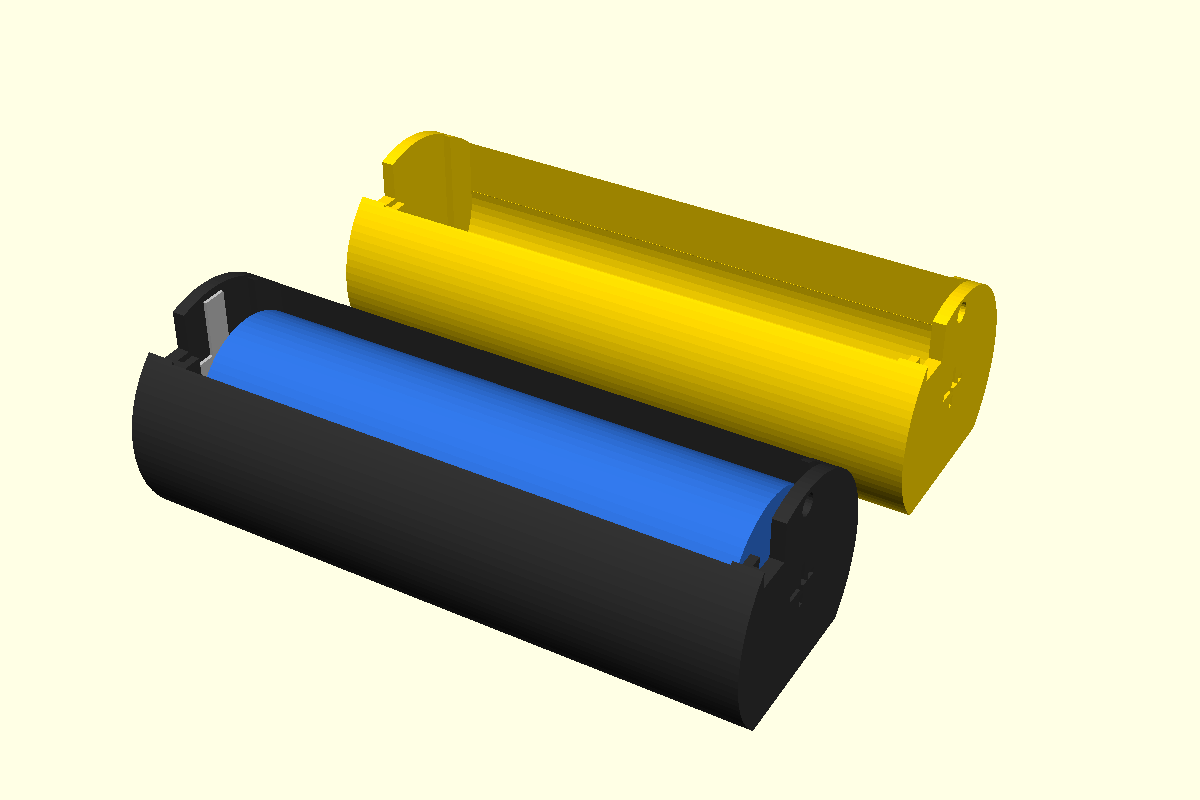
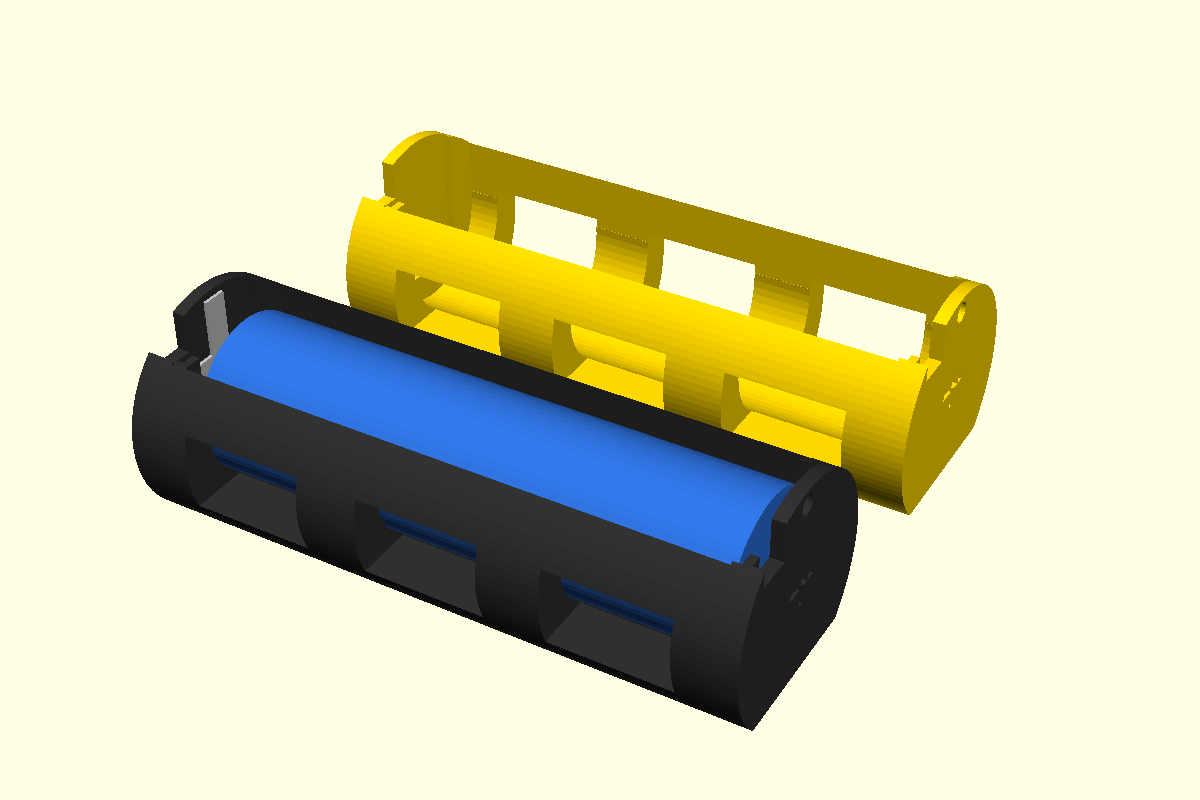
hw: lighten mushroom cradle with side windows
Three through-windows per side under the lips that hold the cell. Floor,
rails and posts are kept. Solid mass goes from 16.6 to 12.2 cm3.

diff --git a/openscad/README.md b/openscad/README.md
@@ -119,7 +119,7 @@ Pièces :
   - base bulbeuse dissymétrique (`bulb_r`, `bulb_z`, `bulb_up`, `bulb_dn`, `foot_dir`) : épaule plus marquée d'un côté, dessous arrondi à 44° au plus ;
   - anneau en **coupelle** sous le chapeau (`ring_z`, `ring_ext`, `ring_rise`), bord relevé et ondulé (`ring_amp`), 45° au plus : sans support. Les ondulations sont calées (`ring_rot`) pour que la coupelle soit en creux sous la prise USB : son bord reste à 2 mm en deçà de la fenêtre sous la fiche (vérifié par un `assert`), le câble se branche par en dessous.
   - En haut, un tenon incliné de 6° (`cap_tilt`) s'emboîte dans le fourreau, 1 vis M3 radiale côté +X, sous la prise USB (`collar_screw_a`).
-- **Berceau** (`cradle`) 74,8 × Ø27,8 mm : gouttière amovible pour une **18650 nue** (65 mm, téton plat ; `cell_l` pour une autre longueur), sans soudure sur l'accu. Deux **butées à languette** (plaque 13 × 11 mm, languette 3 × 7 percée) glissées dans des rainures : ressort côté « − » en bas, bossage côté « + » en haut (polarité gravée sur les bouts). Languettes vers le haut : chaque fil soudé dessus sort par l'encoche voisine (`wire_notch`) et longe l'accu dans la fente du dessus jusqu'au fourreau (W1 rouge 40 mm, W2 noir 110 mm, soudé → JST-XH F, voir *Câblage*) ; on soude les fils sur les languettes, pas sur l'accu. L'accu entre par la fente du dessus en comprimant le ressort (≈ 4 mm, `spring_c`). Trou de tirage Ø2,5 en haut (ficelle, nœud à l'intérieur). Imprimé à plat, méplat sur le plateau, sans support. ![Berceau : monté et nu](rendu_champignon_berceau.png)
+- **Berceau** (`cradle`) 74,8 × Ø27,8 mm : gouttière amovible pour une **18650 nue** (65 mm, téton plat ; `cell_l` pour une autre longueur), sans soudure sur l'accu. Deux **butées à languette** (plaque 13 × 11 mm, languette 3 × 7 percée) glissées dans des rainures : ressort côté « − » en bas, bossage côté « + » en haut (polarité gravée sur les bouts). Languettes vers le haut : chaque fil soudé dessus sort par l'encoche voisine (`wire_notch`) et longe l'accu dans la fente du dessus jusqu'au fourreau (W1 rouge 40 mm, W2 noir 110 mm, soudé → JST-XH F, voir *Câblage*) ; on soude les fils sur les languettes, pas sur l'accu. L'accu entre par la fente du dessus en comprimant le ressort (≈ 4 mm, `spring_c`). Trou de tirage Ø2,5 en haut (ficelle, nœud à l'intérieur). Flancs allégés par 3 fenêtres de chaque côté, sous les lèvres qui retiennent l'accu (`cr_win`, 15,5 g au lieu de 21 g en plein). Imprimé à plat, méplat sur le plateau, sans support. ![Berceau : monté et nu](rendu_champignon_berceau.png)
 - **Sol** (`ground`) : disque de 1 mm au contour lobé (Ø~145, `ground_R`), frange d'herbe en zigzag autour du pied, touffes de grands brins et brins isolés (`grass_*`, `fringe_h`). Pièce séparée à imprimer en vert ; le pied se colle dessus. Élargit l'appui au sol.
 - **Pois** (`dot`) rapportés, collés dans des logements de 0,8 mm, répartis par tirage sur la surface réelle (écart mini `dot_gap`) : 99 (Ø6 × 45, Ø8 × 26, Ø10 × 28), l'écho OpenSCAD donne le nombre par taille.
 
